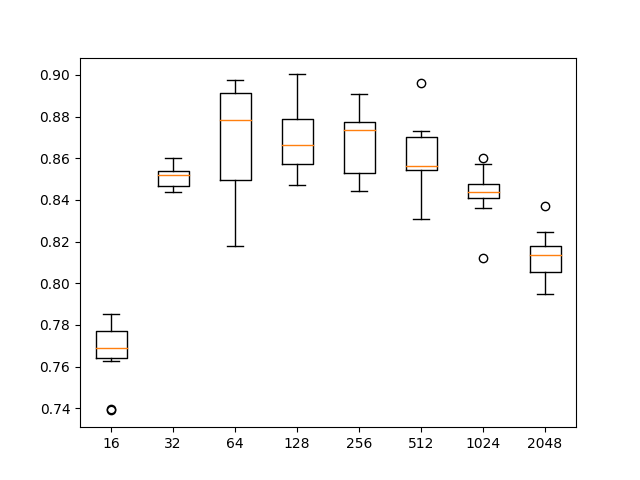
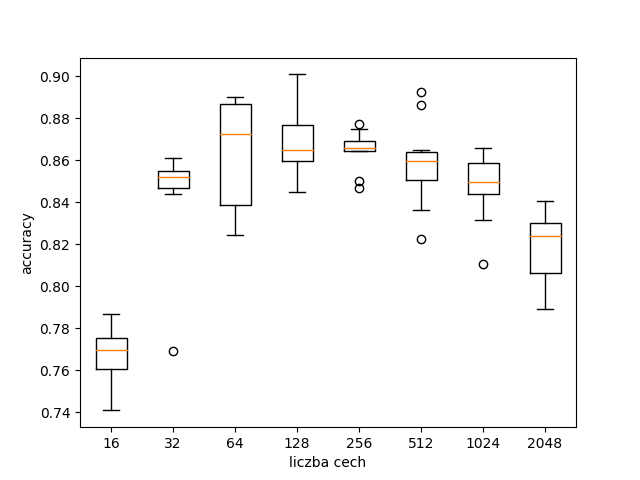
dodatki

diff --git a/train.py b/train.py
@@ -28,8 +28,8 @@ parametry = [16, 32, 64, 128, 256, 512, 1024, 2048]
 n_estimators = [20]
 max_depth = [20]
 vectorizers = {
-    "countvectorizer": CountVectorizer,
-    "tfidfvectorizer": TfidfVectorizer
+    "Bag of Words": CountVectorizer,
+    "TFIDF": TfidfVectorizer
 }
 params = {'model__n_estimators': n_estimators,
           'model__max_depth': max_depth,
@@ -62,11 +62,15 @@ for key, vectorizer in vectorizers.items():
 for key, values in results.items():
     plt.boxplot(values.T)
     plt.xticks([1, 2, 3, 4, 5, 6, 7, 8],parametry)
+    plt.xlabel("liczba cech")
+    plt.ylabel("accuracy")
     plt.savefig(f"imgs/{key}_boxplot.png")
     plt.close()
 
 for key, values in results.items():
     plt.plot(parametry, values.mean(axis=1))
+plt.xlabel("liczba cech")
+plt.ylabel("accuracy")
 plt.legend(results.keys())
 plt.xscale('log')
 plt.xticks(parametry,parametry)
@@ -81,15 +85,25 @@ def is_better(ttest_results, alpha=0.05):
     else:
         return False
 
+dfs = {}
 for key, values in results.items():
     df = pd.DataFrame()
     df["num"] = parametry
-    df["results"] = list(results["tfidfvectorizer"])
+    df["results"] = list(values)
     df["mean_acc"] = [np.mean(r) for r in df["results"]]
     df["std_acc"] = [np.std(r) for r in df["results"]]
     df["better"] = \
         [[i for i, r in enumerate(df["results"]) if is_better(ttest_rel(result, r), alpha=0.05)] for result in df["results"]]
 
+    dfs[key] = df
     df = df.drop("results", axis=1)
+
     print(f"Wyniki testów statystycznych dla {key}:")
     print(tabulate(df, headers='keys'))
+
+bests = {}
+for key, values in dfs.items():
+    best_idx = values["mean_acc"].idxmax()
+    bests[key] = values.loc[best_idx]
+
+print(ttest_rel(bests["TFIDF"]["results"], bests["Bag of Words"]["results"]))
